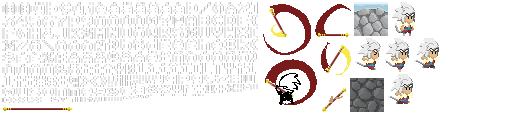
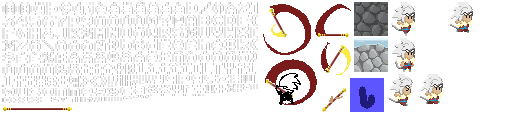
Start on tail hang

Changed region(s): [[0.6875, 0.0, 0.875, 0.5625], [0.6562, 0.5938, 0.875, 0.875], [0.875, 0.0625, 0.9375, 0.25]]

diff --git a/Assets/Resources/Scripts/Player.cs b/Assets/Resources/Scripts/Player.cs
@@ -66,7 +66,7 @@ public class Player : FAnimatedSprite
 
     private float xVel = 0;
     private float yVel = 0;
-    private float airFriction = .8f;
+    private float airFriction = .7f;
     private float groundFriction = .7f;
     private float maxXVel = 10;
     private float minYVel = -15;
@@ -74,7 +74,7 @@ public class Player : FAnimatedSprite
     private bool grounded = false;
     private float jumpStrength = 15;
     private float superJumpStrength = 25;
-    private float hangJumpStrength = 5;
+    private float hangJumpStrength = 20;
     private float speed = 200;
     private float gravity = -50;
     private float stateCount = 0;
@@ -183,7 +183,7 @@ public class Player : FAnimatedSprite
                 }
                 break;
             case State.TAIL_HANG:
-                if (C.getKeyDown(C.JUMP_KEY))
+                if (C.getKey(C.JUMP_KEY) && !lastJumpPress)
                 {
                     currentState = State.JUMP;
                     yVel = hangJumpStrength;
@@ -216,6 +216,7 @@ public class Player : FAnimatedSprite
         }
 
         stateCount += Time.deltaTime;
+        RXDebug.Log(currentState);
 
         this.scaleX = isFacingLeft ? -1 : 1;
         this.play(currentState.ToString());
@@ -311,8 +312,19 @@ public class Player : FAnimatedSprite
             yVel = 0;
             this.y = Mathf.FloorToInt(this.y / tilemap.tileHeight) * tilemap.tileHeight + tilemap.tileWidth / 2;
         }
+        CheckHook();
     }
-
+    private void CheckHook()
+    {
+        if (tilemap.isHook(this.x, this.y))
+        {
+            this.x = Mathf.FloorToInt(this.x / tilemap.tileWidth) * tilemap.tileWidth + tilemap.tileWidth / 2;
+            this.y = Mathf.FloorToInt(this.y / tilemap.tileHeight) * tilemap.tileHeight + tilemap.tileHeight / 2;
+            currentState = State.TAIL_HANG;
+            xVel = 0;
+            yVel = 0;
+        }
+    }
     public void TryMoveUp()
     {
         float newY = this.y + yVel;
@@ -325,7 +337,10 @@ public class Player : FAnimatedSprite
         {
             this.y = Mathf.FloorToInt(this.y / tilemap.tileHeight) * tilemap.tileHeight + tilemap.tileHeight / 2;
         }
+        if (yVel < HOOK_MIN_Y_VEL)
+            CheckHook();
     }
+    private const float HOOK_MIN_Y_VEL = 3;
 
 
 }

diff --git a/Assets/Resources/plugins/Mattfox/FTilemap.cs b/Assets/Resources/plugins/Mattfox/FTilemap.cs
@@ -353,6 +353,10 @@ public class FTilemap : FContainer
     {
         return !C.WALL_LIST.Contains(getFrameNumAt(xPos, yPos));
     }
+    public bool isHook(float xPos, float yPos)
+    {
+        return C.HOOK_LIST.Contains(getFrameNumAt(xPos, yPos));
+    }
 	// returns FSprite at 
 	public FSprite getTile (int givenX, int givenY)
 	{

diff --git a/Assets/Resources/Scripts/C.cs b/Assets/Resources/Scripts/C.cs
@@ -15,6 +15,7 @@ public class C
     }
 
     public static readonly List<int> WALL_LIST = new List<int> { -1, 1 };
+    public static readonly List<int> HOOK_LIST = new List<int> { 3 };
 
     public const string versionNumber = "v0.2";
 
